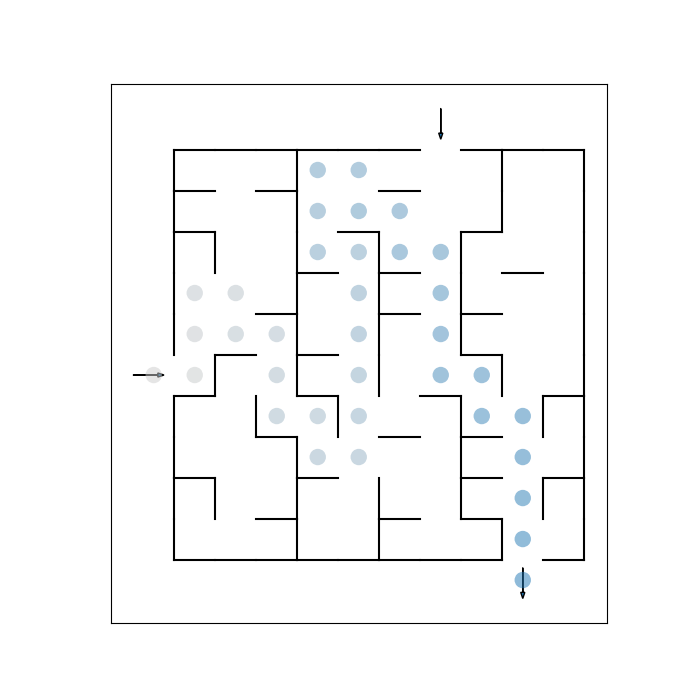
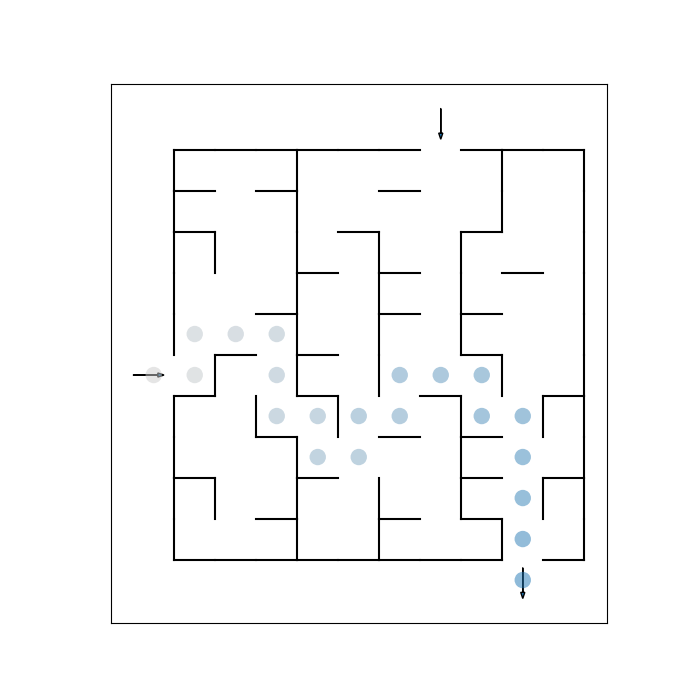
feat : finish the dijkstra alg

diff --git a/solver/dijkstraSolver.py b/solver/dijkstraSolver.py
@@ -25,11 +25,24 @@ class DijkstraSolver:
         # Exit found and used by the solver
         self.m_exitUsed = None
 
+    class ComparableCoordinates:
+        """
+        A wrapper class for Coordinates that compares based on distance.
+        This is needed because Coordinates cannot be directly compared in a heapq.
+        """
+        def __init__(self, distance, coordinates):
+            self.distance = distance
+            self.coordinates = coordinates
+
+        def __lt__(self, other):
+            # Compare based on distance only, as required for the priority queue
+            return self.distance < other.distance
+
     def solveMaze(self, maze: Maze, entrance: Coordinates):
         # Initialize the priority queue (min-heap)
         pq = []
         # Push the entrance to the priority queue with distance 0
-        heapq.heappush(pq, (0, entrance))
+        heapq.heappush(pq, DijkstraSolver.ComparableCoordinates(0, entrance))
 
         # Store the entrance used
         self.m_entranceUsed = entrance
@@ -46,7 +59,9 @@ class DijkstraSolver:
         # Start exploring from the entrance
         while pq:
             # Pop the cell with the smallest distance
-            current_dist, curr_cell = heapq.heappop(pq)
+            current = heapq.heappop(pq)
+            current_dist = current.distance
+            curr_cell = current.coordinates
 
             # Mark the cell as visited
             visited.add(curr_cell)
@@ -68,7 +83,7 @@ class DijkstraSolver:
                 if neighbor not in dist or new_dist < dist[neighbor]:
                     dist[neighbor] = new_dist
                     predecessors[neighbor] = curr_cell
-                    heapq.heappush(pq, (new_dist, neighbor))
+                    heapq.heappush(pq, DijkstraSolver.ComparableCoordinates(new_dist, neighbor))
 
             # Count cells explored
             self.m_cellsExplored += 1
@@ -82,6 +97,23 @@ class DijkstraSolver:
                 curr = predecessors.get(curr, None)
             # Reverse the path to get it from entrance to exit
             self.m_solverPath = path[::-1]
-
-
-	
+            
+    def compare_coordinates(self, coord1, coord2):
+        """
+        Compares two Coordinates objects based on their x and y values.
+        Returns:
+        -1 if coord1 < coord2
+         0 if coord1 == coord2
+         1 if coord1 > coord2
+        """
+        if coord1.x < coord2.x:
+            return -1
+        elif coord1.x > coord2.x:
+            return 1
+        else:  # x values are equal, compare y values
+            if coord1.y < coord2.y:
+                return -1
+            elif coord1.y > coord2.y:
+                return 1
+            else:
+                return 0  # Both x and y are equal
